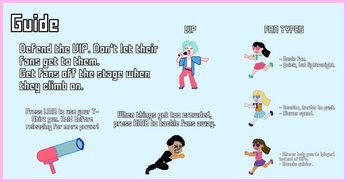
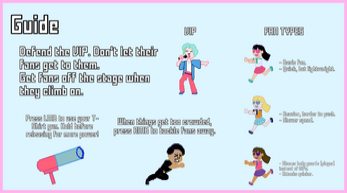
Stan Stopper: Slide Show always being shown is fixed

diff --git a/page_StanStopper.html b/page_StanStopper.html
@@ -20,7 +20,7 @@
 
 <!-- HTML -->
 
-  <body class="body2dart">
+  <body class="body2dart" onload="showSlides(slideIndex)">
 
   <a href="index.html" > <img src="assets/images/Mascot.png" alt="Logo" width="10%" > </a>
 
@@ -50,29 +50,25 @@
  <!-- Container for the image gallery -->
 <div class="container">
 
-  <!-- Full-width images with number text -->
+  <!-- Images -->
+
   <div class="mySlides">
-    <div class="numbertext">1 / 5</div>
       <img src="assets/art/StanStopper/SS_start.png" style="width:100%" >
   </div>
 
   <div class="mySlides">
-    <div class="numbertext">2 / 5</div>
       <img src="assets/art/StanStopper/SS_instructions.png" style="width:100%">
   </div>
 
   <div class="mySlides">
-    <div class="numbertext">3 / 5</div>
       <img src="assets/art/StanStopper/SS_game1.png" style="width:100%">
   </div>
 
   <div class="mySlides">
-    <div class="numbertext">4 / 5</div>
       <img src="assets/art/StanStopper/SS_game2.png" style="width:100%">
   </div>
 
   <div class="mySlides">
-    <div class="numbertext">5 / 5</div>
       <img src="assets/art/StanStopper/SS_end.png" style="width:100%">
   </div>
 

diff --git a/css/slideshow.css b/css/slideshow.css
@@ -1,4 +1,4 @@
- {
+ * {
   box-sizing: border-box;
 }
 
@@ -14,7 +14,6 @@
 /* Hide the images by default */
 .mySlides {
   display: none;
-
 }
 
 /* Add a pointer when hovering over the thumbnail images */
